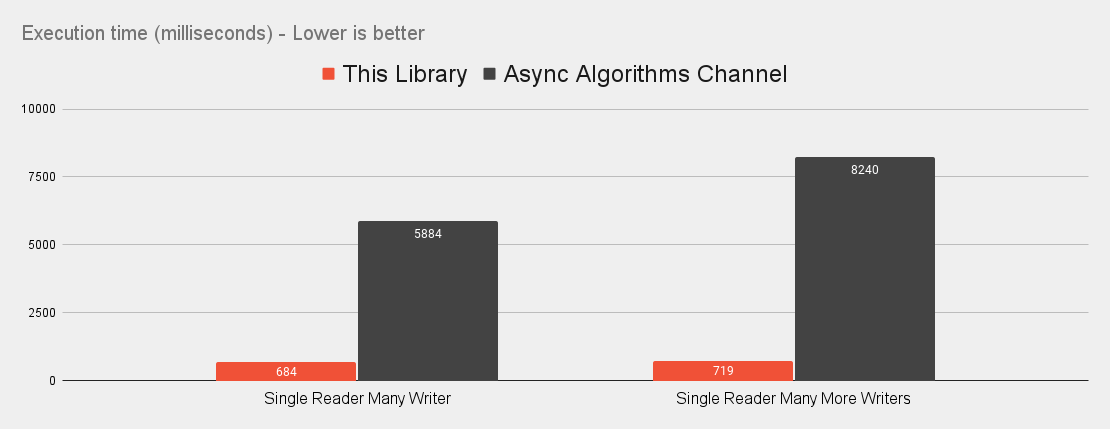
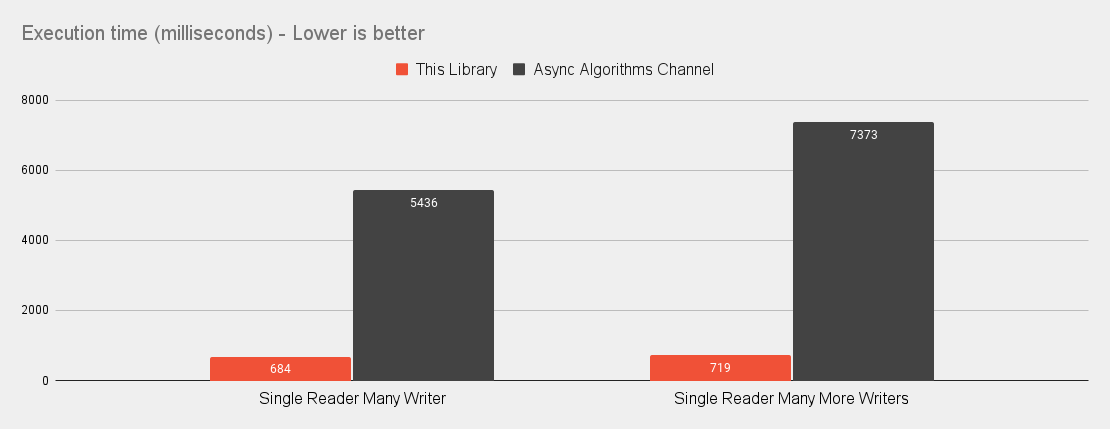
Update benches

diff --git a/Benchmarks/Readme.md b/Benchmarks/Readme.md
@@ -69,8 +69,8 @@ Apple has their own channel implementation in the [swift-async-algorithms packag
 
 | Test Case  | This Library | Async Algorithms `AsyncChannel` | This library `n` times faster   |
 | --------------------------- | ----------- | ----------- | ----- |
-| testSingleReaderManyWriter  | `0.702384305` | `5.884461689` | `8.38x`  |
-| testHighConcurrency         | `0.7504368067` | `8.240125799` | `10.98x`  |
+| testSingleReaderManyWriter  | `0.7498844027519226` | `5.4360926985740665` | `7.95x`  |
+| testHighConcurrency         | `0.7715810060501098` | `7.373045003414154` | `10.25x`  |
 
 ### Why is swift slower than go?
 
